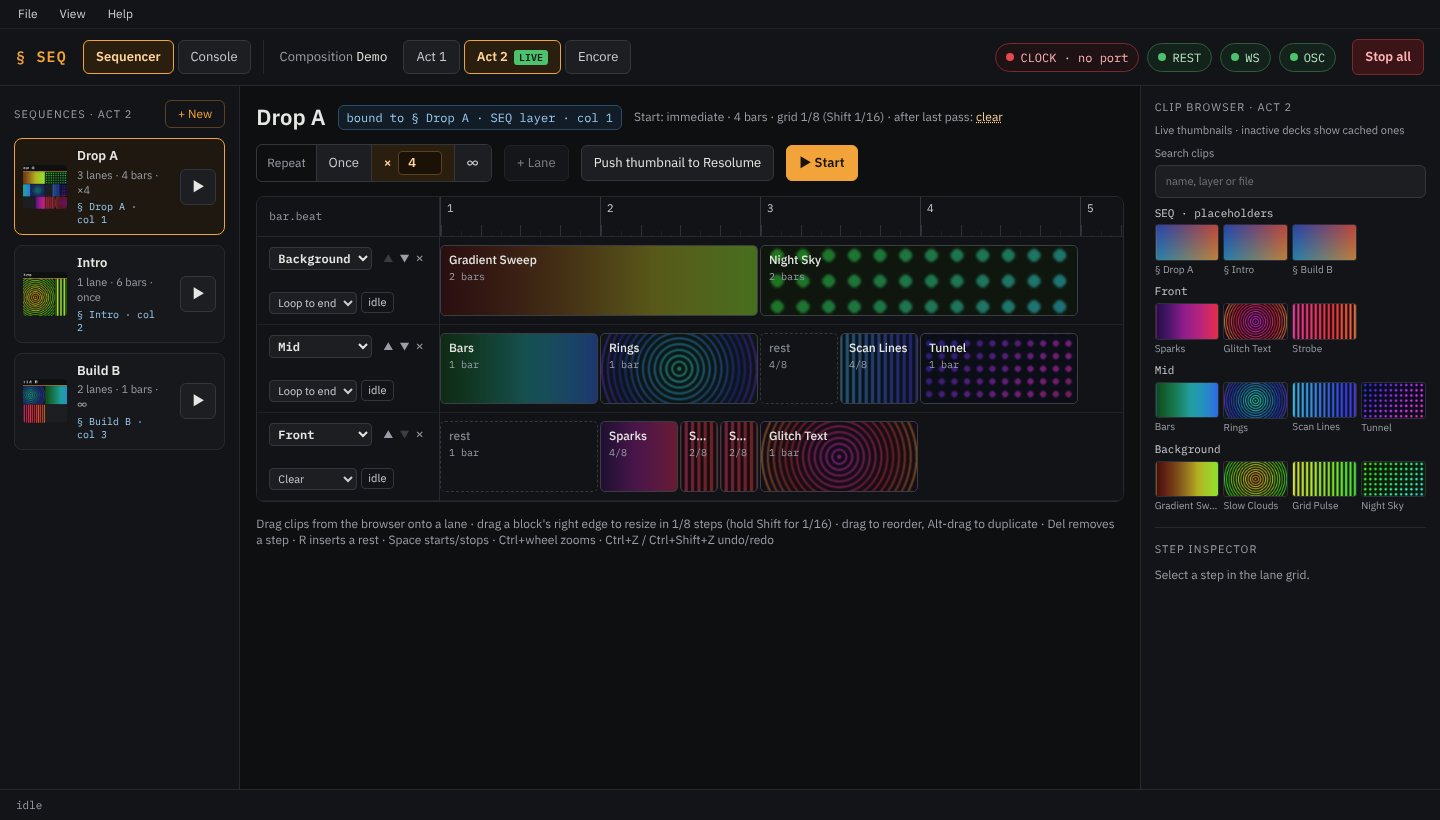
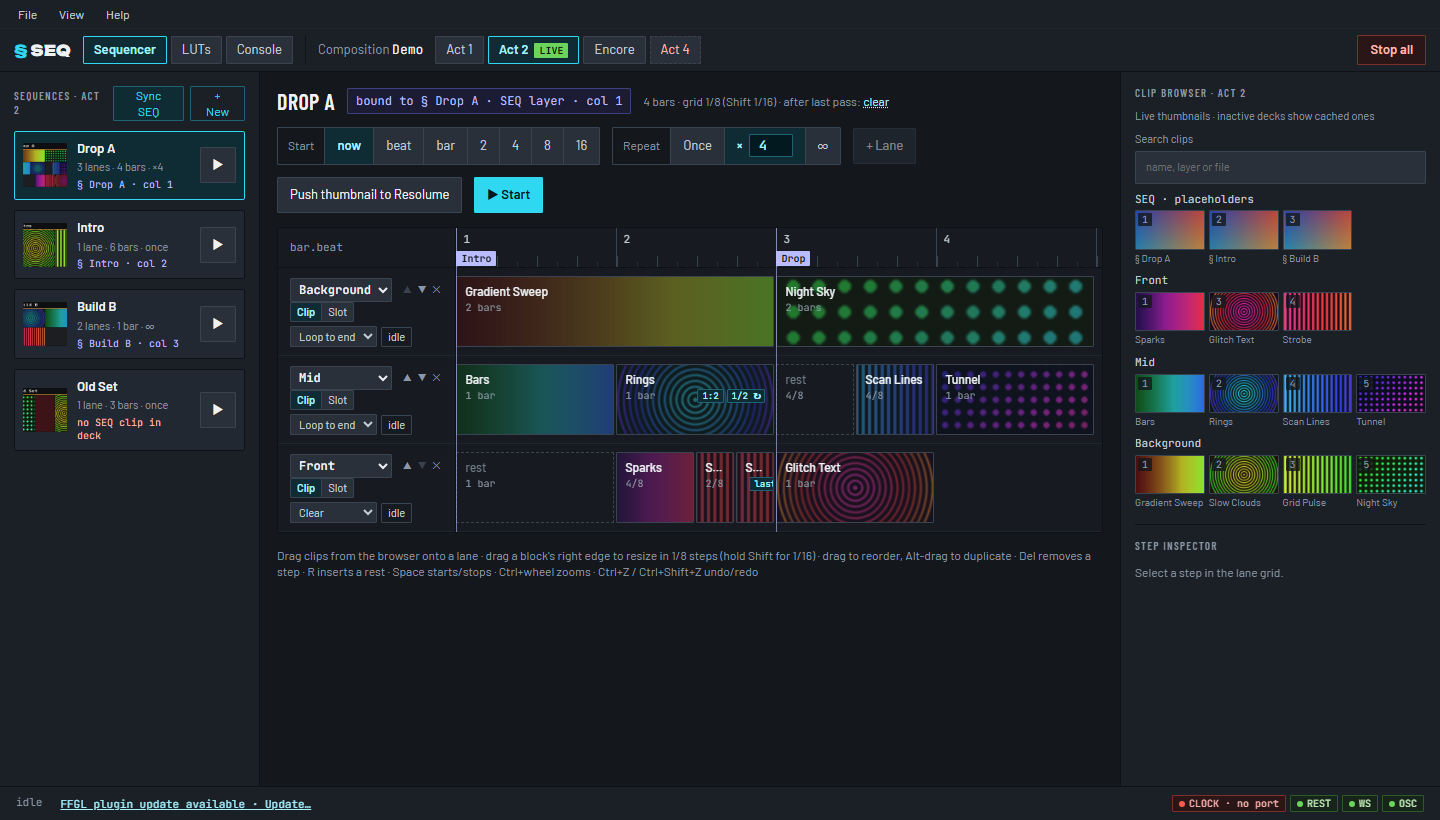
docs: new screenshots (update dialog, Preferences → Updates, sections and badges, LUT preview); changelog
site/screenshots.mjs adds the update question (from a local stand-in for GitHub's release API), Preferences →
Updates, two sections and pass conditions/choices in the demo editor, and copies overview.png to
docs/images/screenshot.png for the README and the landing page.

Claude-Session: https://claude.ai/code/session_01HbsKgLZnLUFyGA7NNxBQJQ

diff --git a/CHANGELOG.md b/CHANGELOG.md
@@ -32,7 +32,14 @@ The format follows [Keep a Changelog](https://keepachangelog.com/en/1.1.0/), and
   clip, and its `§` clip clicked while it runs takes it over without a restart (no more "start it from one place
   at a time").
 - The LUT preview shows the original and the result **side by side**, each fitted to its panel, instead of one
-  picture with a split to drag.
+  picture with a split to drag. It uses the whole width of the tab and is as high as the image needs.
+
+### Fixed
+
+- Step badges (Play on, choices) sit next to the length and no longer cover the clip name.
+- A disabled main button (such as **Download and install** when the app can't update itself) looks disabled.
+- The splash screen keeps its own size and stays centred instead of reopening at the main window's last size.
+- Picking a clip for a choice or a relink no longer shifts the clip browser down.
 - Sequence files are saved in format **v4**. Files of earlier builds are read as before; the first save keeps the
   original as `.v3.bak` (or `.v1.bak`, `.v2.bak`). 0.4.x cannot read v4 files.
 

diff --git a/site/manual/src/installation.md b/site/manual/src/installation.md
@@ -61,6 +61,10 @@ From version 0.5.0 on the app looks for a new version once at each start. When t
 and install**, **Skip this version** (not offered at start-up again) or **Later** (asked again at the next start).
 **Help → Check for updates…** checks any time. Turn the check at start-up off in **Preferences → Updates**.
 
+![The update question after the check at start-up: the new version, its release notes and the choices](images/update-dialog.png)
+
+![Preferences, Updates tab: the check at start-up and Check now](images/prefs-updates.png)
+
 **Download and install** needs no sequence running or waiting. The app downloads the release from GitHub, checks it,
 quits and starts the new version in the same folder. If the new version doesn't start, the old one comes back and
 says why. This works when the `clip-sequencer` folder is one you unpacked from the release zip and can write to (not

diff --git a/docs/PLAN.md b/docs/PLAN.md
@@ -344,7 +344,8 @@ Resolume and can run whenever he has time; the rest in the order below. One mile
 - [x] Test images: the Kodak Lossless True Color Image Suite (decided with Uli 2026-11-25; 24 JPEGs in
       `web/public/kodak`, README and licence list entry). Not "Lenna": it is not free of copyright (a 1972 Playboy
       photo) and many journals no longer accept it.
-- [ ] New screenshot `site/manual/src/images/luts-tab.png` (`site/screenshots.mjs`, needs Playwright).
+- [x] New screenshot `site/manual/src/images/luts-tab.png` (`site/screenshots.mjs`, needs Playwright); also the update
+      dialog, Preferences → Updates, and sections and badges in the editor and overview (2026-11-26).
 
 ## M28 — Remote Resolume (requested by Uli 2026-11-26)
 Resolume runs on a computer next to the projector (short HDMI cable), the sequencer on another one further away,
